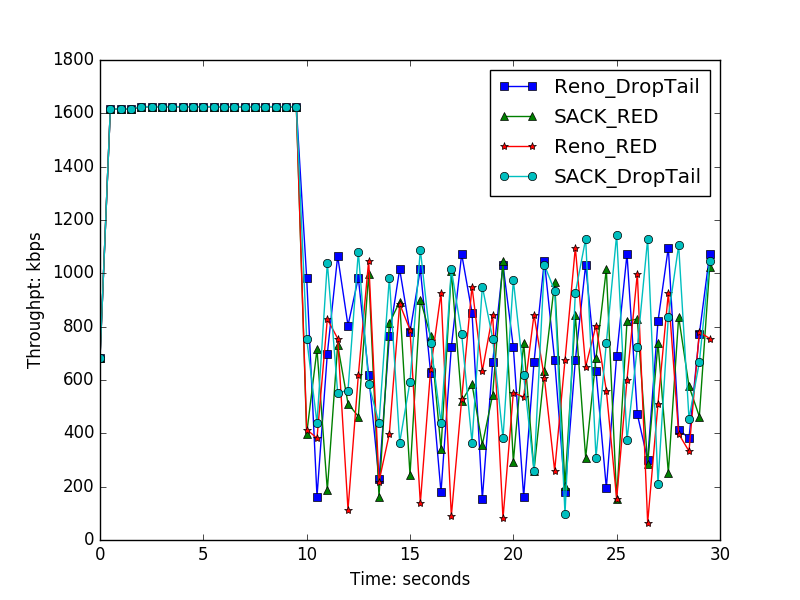
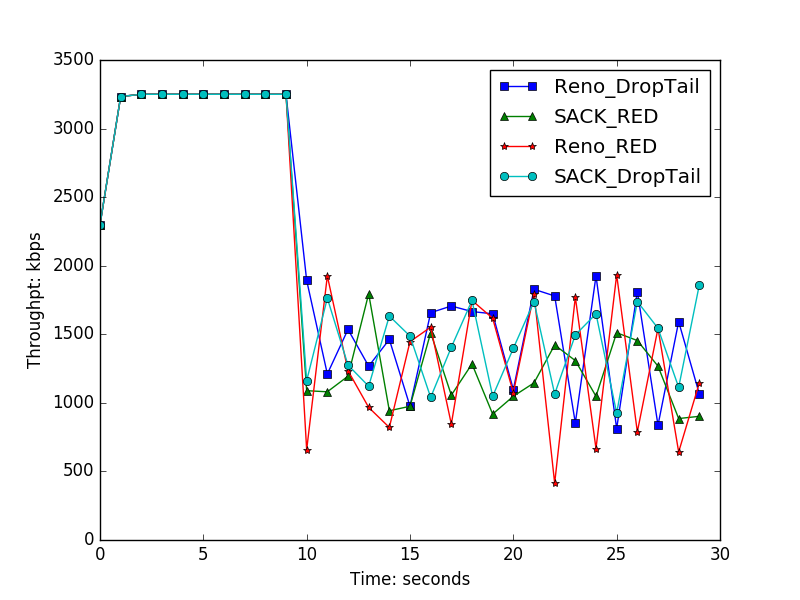
revert exp3

diff --git a/p3/exp3/run_exp3.py b/p3/exp3/run_exp3.py
@@ -20,7 +20,6 @@ def statistic(fname, duration):
     drop = []
     for i in range(duration):
         send[i] = recv[i] = total_rtt[i] = 0
-        send[i+0.5] = recv[i+0.5] = total_rtt[i+0.5] = 0
     for l in lines:
         fields = l.split()
         action = fields[0]
@@ -30,25 +29,19 @@ def statistic(fname, duration):
         packetType = fields[4]
         seq = fields[10]
 
-        time_int = int(time)
-        if time - time_int > 0.5:
-            timeSlot = time_int + 0.5
-        else:
-            timeSlot = time_int
         if action == '+' and source == '0':
+            timeSlot = int(float(time))
             window[seq] = time
             send[timeSlot] += 1
         elif action == 'r' and dest == '0' and packetType == 'ack' and seq in window:
+            timeSlot = int(float(fields[1]))
             recv[timeSlot] += 1
             total_rtt[timeSlot] += time - window[seq]
             window.pop(seq)
     for i in range(duration):
         thpt.append(recv[i]*1040*8.0/1024)
-        thpt.append(recv[i+0.5]*1040*8.0/1024)
         latency.append(total_rtt[i]*1.0/recv[i] if recv[i] != 0 else 0)
-        latency.append(total_rtt[i+0.5]*1.0/recv[i+0.5] if recv[i+0.5] != 0 else 0)
         drop.append((send[i]-recv[i])*1.0/send[i]*100 if send[i] != 0 else 0)
-        drop.append((send[i+0.5]-recv[i+0.5])*1.0/send[i+0.5]*100 if send[i+0.5] != 0 else 0)
     return thpt, latency, drop
 
 def runExp1(duration):
@@ -74,10 +67,8 @@ def main():
     for k in stat:
         plt.figure(nfig)
         nfig += 1
-        x = range(2*duration)
-        x = [i/2.0 for i in x]
         for combination in stat[k]:
-            plt.plot(x, stat[k][combination], color[combination], label = combination)
+            plt.plot(range(duration), stat[k][combination], color[combination], label = combination)
         plt.xlabel('Time: seconds')
         if k == 'thpt':
             plt.ylabel('Throughpt: kbps')
@@ -90,4 +81,3 @@ def main():
         plt.savefig('exp3_'+k)
 
 main()
-
